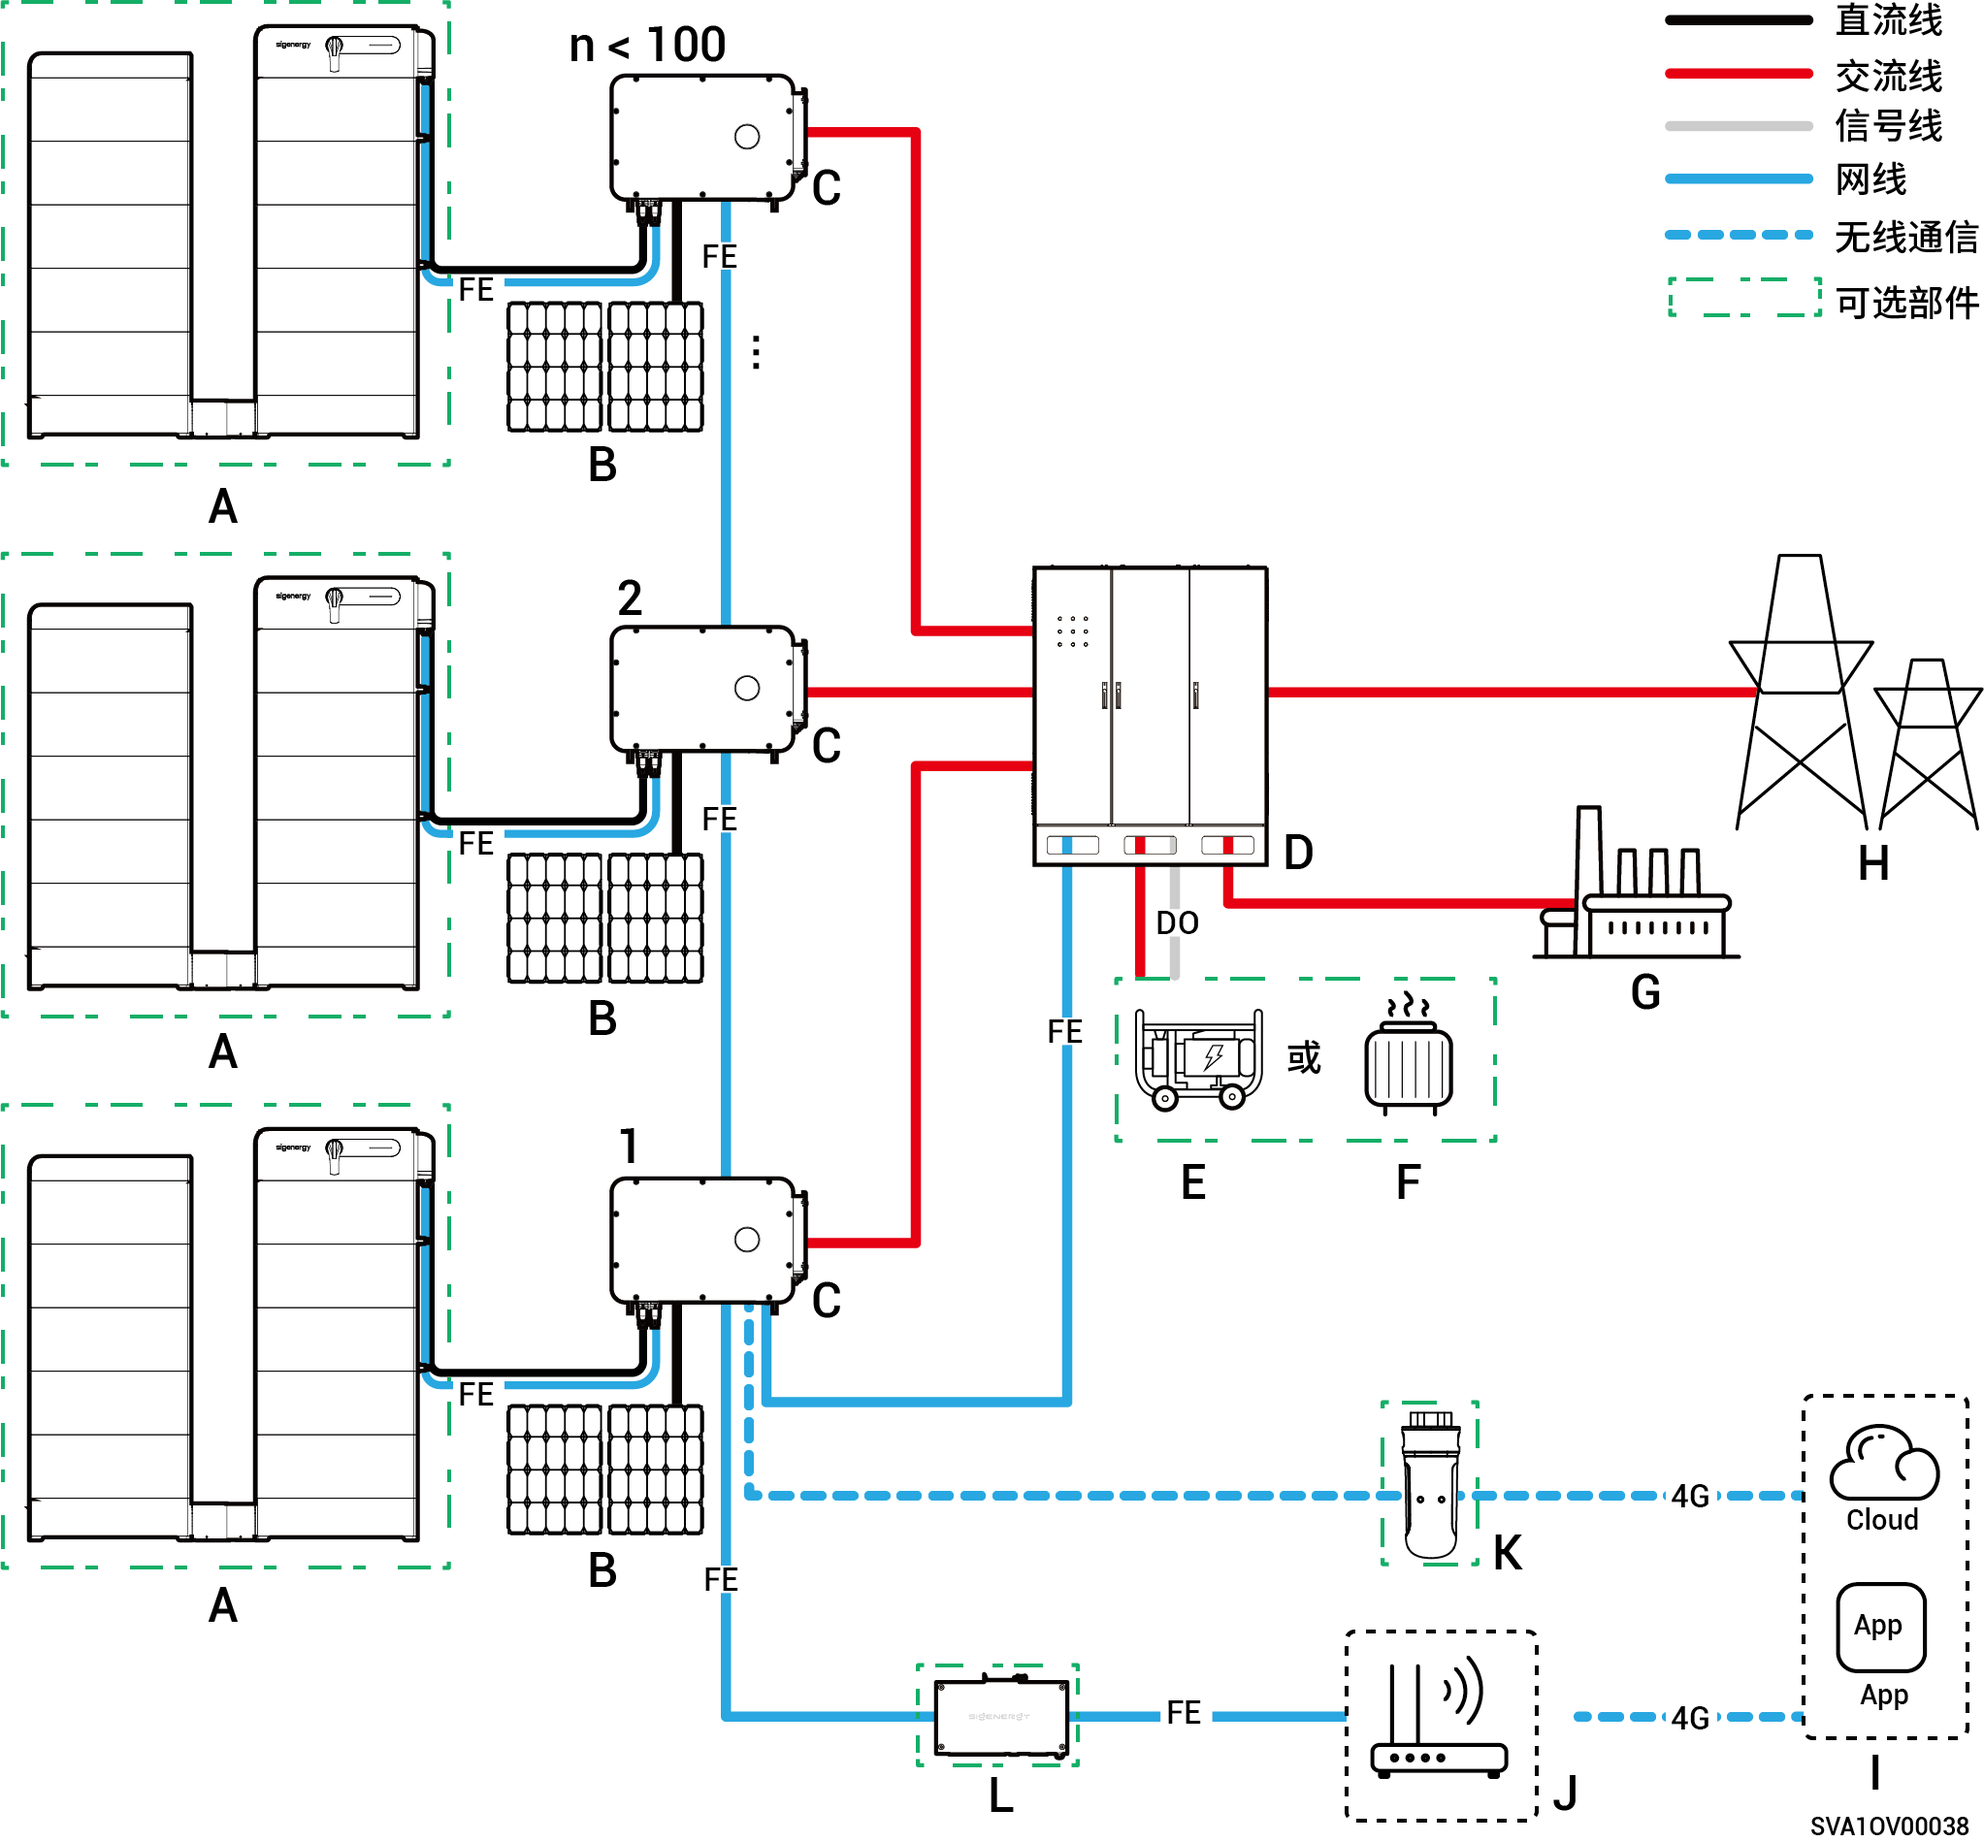
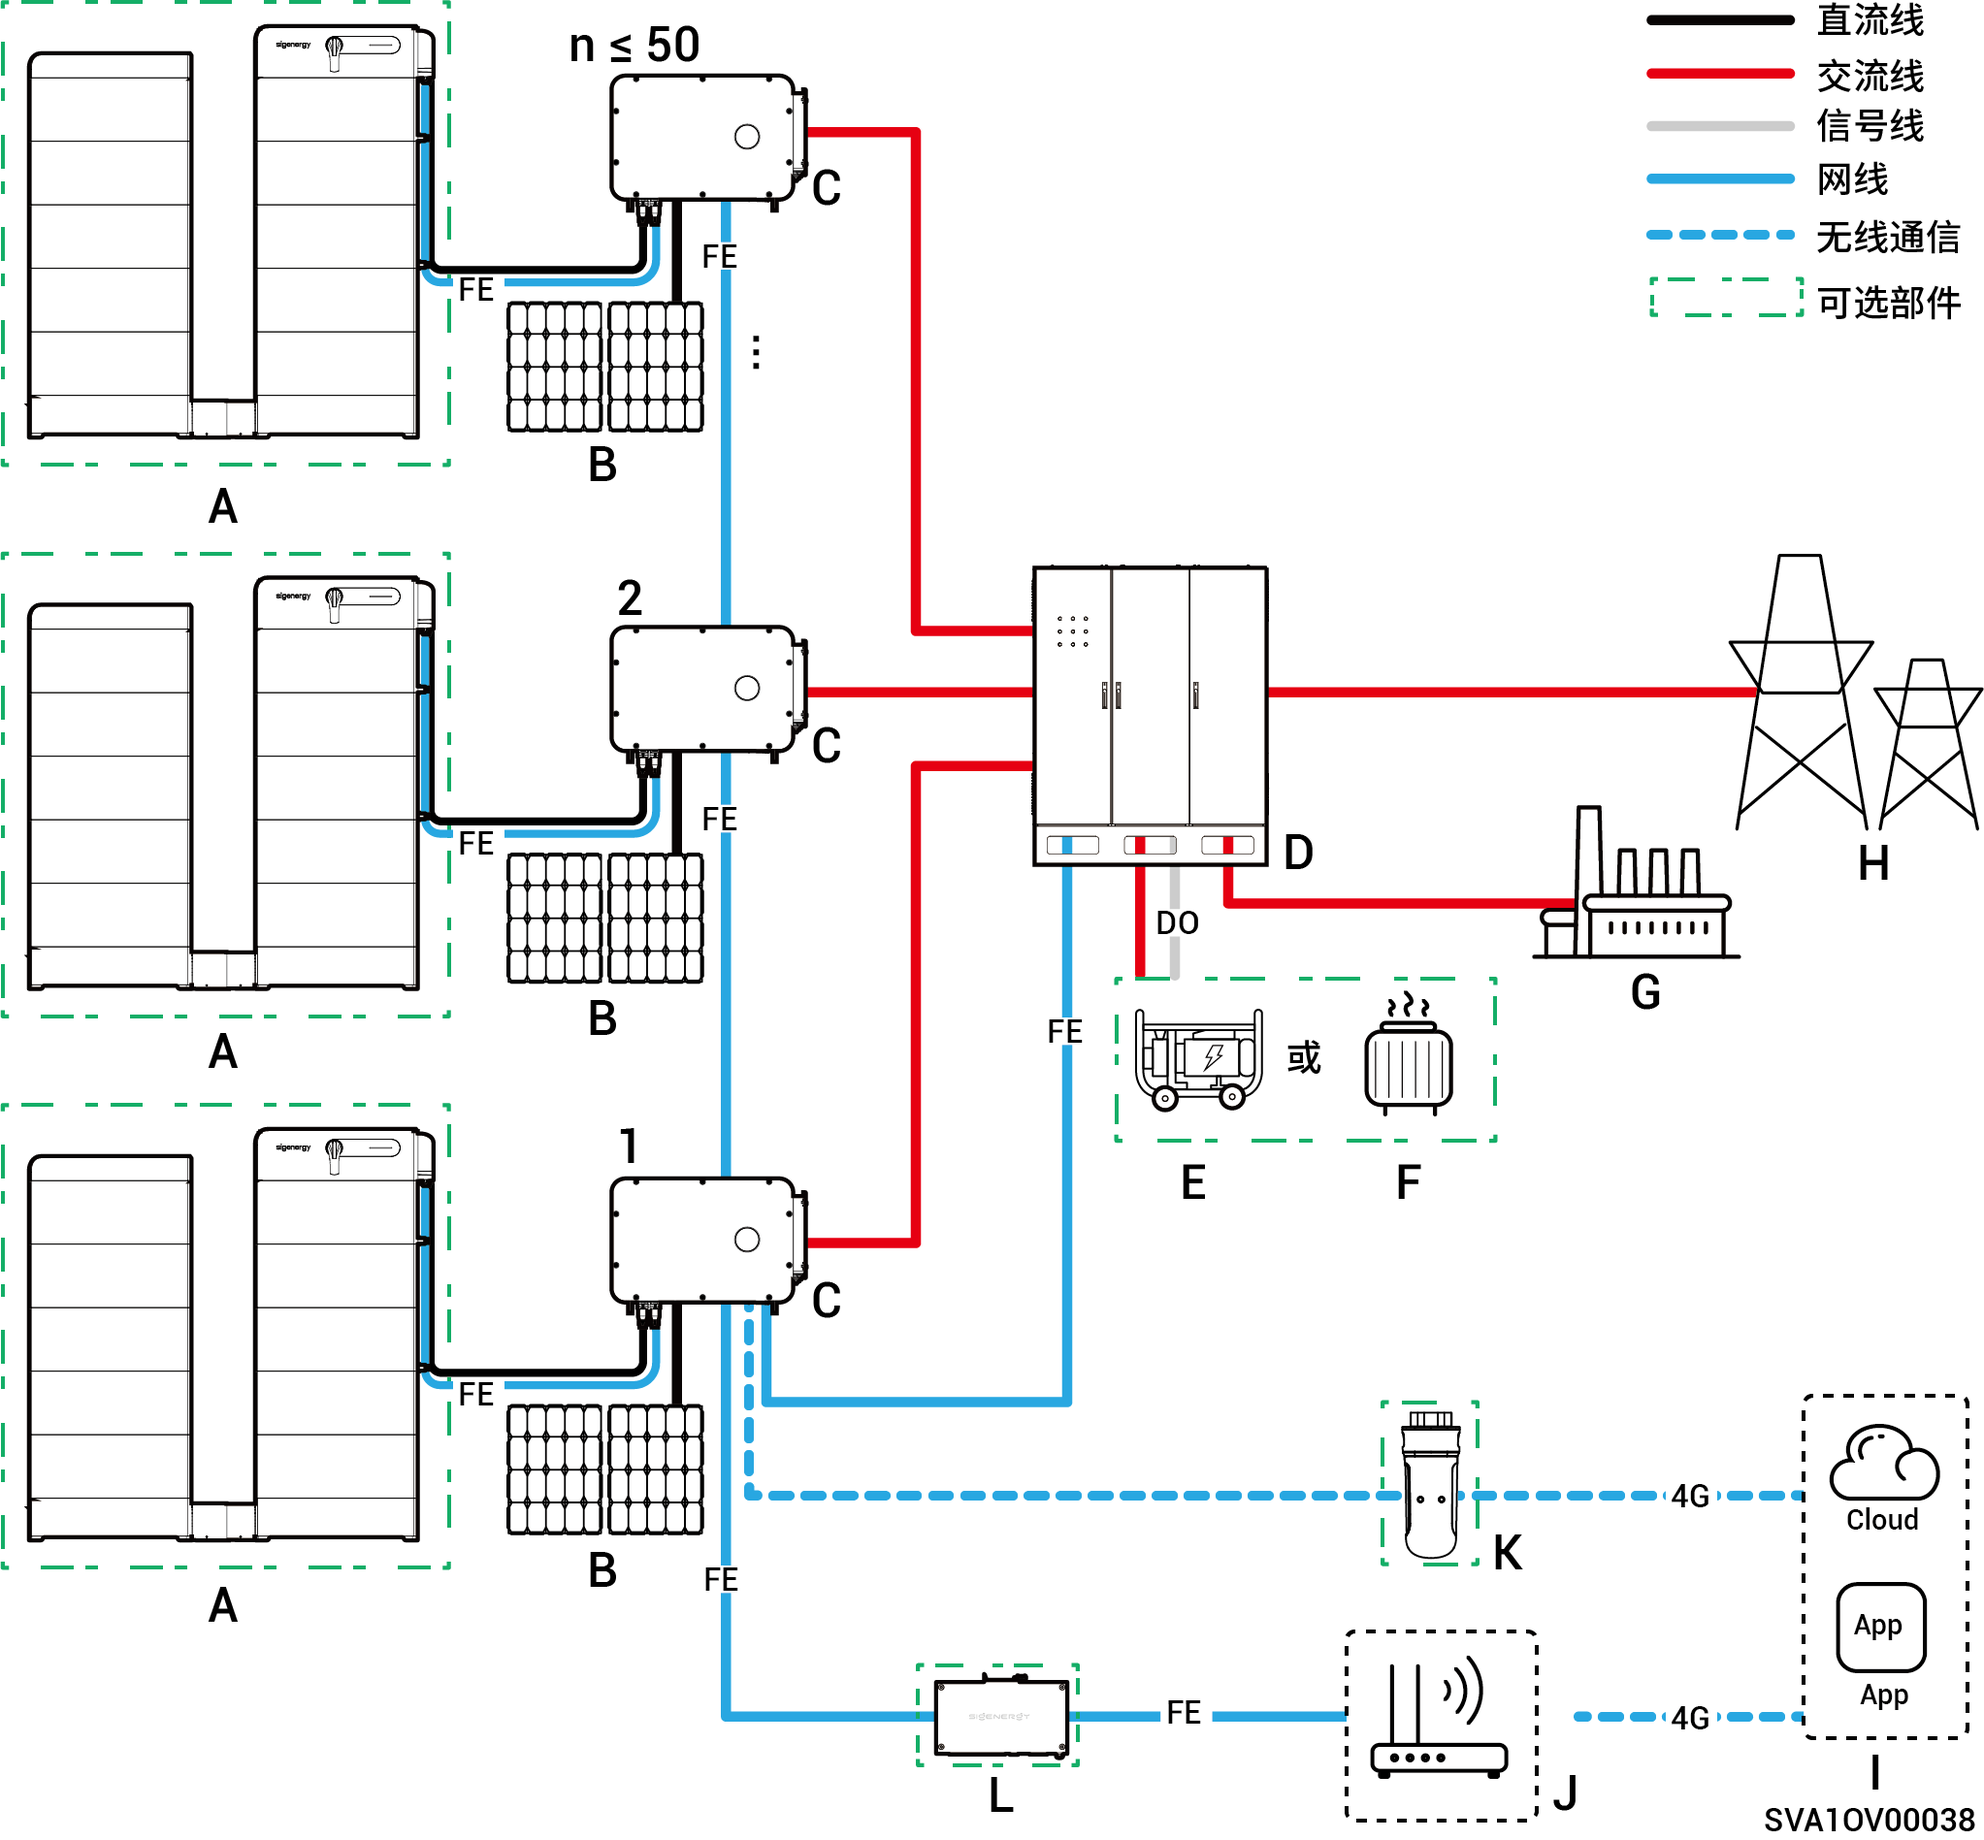
GITBOOK-3: No subject

diff --git a/chan-pin-jie-shao/zu-wang-jie-shao.md b/chan-pin-jie-shao/zu-wang-jie-shao.md
@@ -45,6 +45,8 @@
 
 <table data-header-hidden><thead><tr><th valign="middle"></th><th width="161.727294921875" valign="middle"></th><th valign="middle"></th><th valign="middle"></th><th valign="middle"></th><th data-hidden></th></tr></thead><tbody><tr><td valign="middle">A．电池</td><td valign="middle">B．光伏板</td><td valign="middle">C．逆变器</td><td valign="middle">D．思格备电柜</td><td valign="middle">E．发电机</td><td></td></tr><tr><td valign="middle">F．智能负载</td><td valign="middle">G．备电负载</td><td valign="middle">H．电网</td><td valign="middle">I．思格云</td><td valign="middle">J．路由器</td><td></td></tr><tr><td valign="middle">K．思格通信棒</td><td valign="middle">L．思格通信网桥</td><td valign="middle"></td><td valign="middle"></td><td valign="middle"></td><td></td></tr></tbody></table>
 
+/
+
 ## 备电组网图（HYB机型配置内机思格能源备电柜，逆变器≤3台）
 
 <figure><img src="../.gitbook/assets/SVA1OV00039-ZH.png" alt=""><figcaption></figcaption></figure>
